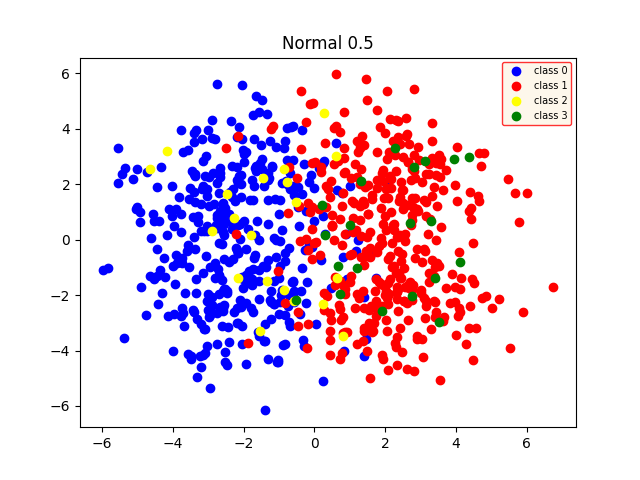
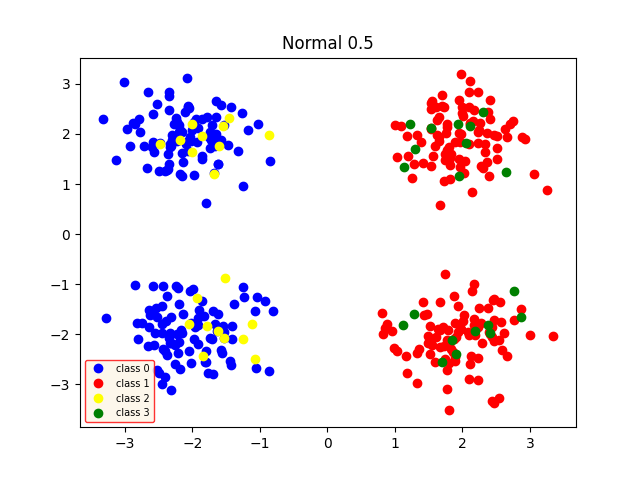
new run

diff --git a/main.py b/main.py
@@ -23,10 +23,10 @@ def run_binary() -> None:
     model.predict(data_to_predict=data.testX)
 
 def run_binary_complex() -> None:
-    data = create_symmetric_dataset(200, 1.5)
+    data = create_symmetric_dataset(100, 0.5)
     visualize_dataset(data.trainX, data.trainY, data.testX, data.testY, 'Normal 0.5')
     model = Circuit.Model()
-    model.train(lr=0.75, steps=150, trainX=data.trainX, trainY=data.trainY, sq=1.575)
+    model.train(lr=0.75, steps=100, trainX=data.trainX, trainY=data.trainY, sq=1.575)
     model.score_model(testX=data.testX, testY=data.testY)
     print('accuracy on train: ')
     model.predict(data_to_predict=data.trainX)
@@ -61,8 +61,8 @@ if __name__ == '__main__':
 
     # runfile.run()
     # run_fisher()
-    run()
-    # run_binary_complex()
+    # run()
+    run_binary_complex()
     # run_binary()
     # data = load_digits()
     # x, y = np.array(data.data), np.array(data.target)
